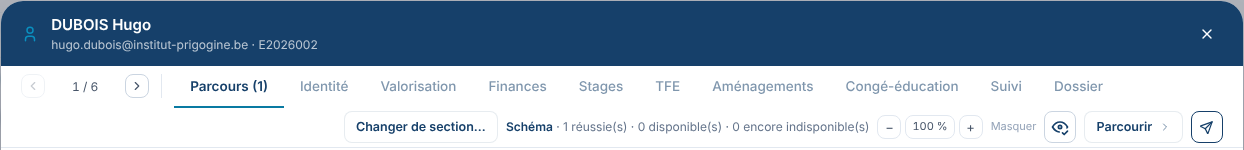
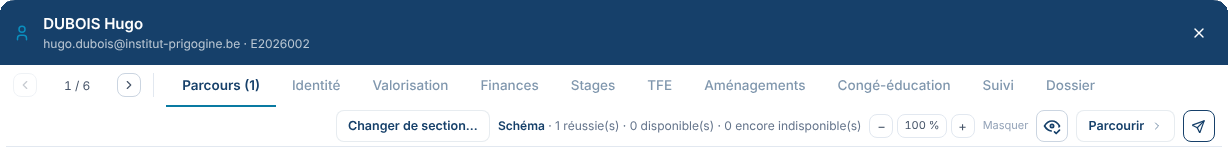
3.5.087 — Mode d'emploi : les captures de fenêtres rognées à la fenêtre seule (25), sans cadre ni fond, centrées, à l'écran et dans le PDF

diff --git a/frontend/src/pages/Aide.jsx b/frontend/src/pages/Aide.jsx
@@ -116,16 +116,18 @@ function ImageDuPoint({ im, p, onAgrandir, onTaille }) {
     setLargeur(l); onTaille?.(im.src, l);
   };
   return (
-    <figure className="m-0 max-w-full rounded-champ border border-slate-200 overflow-hidden bg-white"
-      style={{ width: largeur ? `${largeur + 2}px` : '18rem' }}>
-      <button type="button" className="relative block w-full bg-slate-50 cursor-zoom-in" title="Agrandir"
+    /* LA FENÊTRE SEULE, CENTRÉE (3.5.087, Charles : « un cadre, puis un fond gris, puis la fenêtre — je ne veux que la
+       fenêtre, et centrée ») : plus de cadre ni de fond autour de la capture ; les captures de fenêtres sont rognées au bord
+       de la fenêtre (coins arrondis transparents). */
+    <figure className="m-0 mx-auto max-w-full" style={{ width: largeur ? `${largeur}px` : '18rem' }}>
+      <button type="button" className="relative block w-full cursor-zoom-in" title="Agrandir"
         onClick={() => onAgrandir?.(im)}>
         <img src={im.src} alt={im.legende || p.titre} loading="lazy" onLoad={charge}
-          className="block w-full h-auto object-contain" style={{ maxHeight: plafond }} />
+          className="block w-full h-auto object-contain" style={{ maxHeight: plafond, filter: 'drop-shadow(0 2px 6px rgba(15, 30, 60, .14))' }} />
         <span className="absolute right-1.5 bottom-1.5 inline-grid place-items-center w-7 h-7 rounded-full bg-white/90 border border-slate-200 text-slate-500">
           <IconZoomIn size={15} /></span>
       </button>
-      {im.legende && <figcaption className="px-3 py-1.5 text-mention text-slate-500 border-t border-slate-100"><Enrichi texte={im.legende} /></figcaption>}
+      {im.legende && <figcaption className="px-1 pt-2 text-mention text-slate-500 text-center"><Enrichi texte={im.legende} /></figcaption>}
     </figure>
   );
 }

diff --git a/backend/src/lib/guideKit.js b/backend/src/lib/guideKit.js
@@ -121,7 +121,8 @@ const STYLES = `
   /* les captures, dans un cadre bleu pâle, légende centrée (ancien guide) */
   /* Une capture se pose seule, sur un filet gris (3.5.034, Charles : « tu mets des bandes bleues claires »). */
   .cap { margin: 0 0 3mm; break-inside: avoid; }
-  .cap img { display: block; width: 100%; max-height: 72mm; object-fit: contain; border-radius: 2mm; border: .3mm solid #CBD5E1; background: #fff; }
+  /* La fenêtre seule, centrée (3.5.087) : ni cadre ni fond autour ; la capture est rognée au bord de la fenêtre. */
+  .cap img { display: block; max-width: 100%; width: auto; height: auto; max-height: 72mm; object-fit: contain; margin: 0 auto; }
   .cap figcaption { font-size: 7.8pt; color: ${C.gris}; text-align: center; margin-top: 1.8mm; line-height: 1.4; }
   .annot { margin: 1mm 0 3.5mm; width: 100%; }
   .annot-ecran { position: relative; }

diff --git a/backend/assets/nouveautes/2026-11.html b/backend/assets/nouveautes/2026-11.html
@@ -80,6 +80,12 @@
 <h2>Les dernières nouveautés</h2>
 <p class="intro">Ce qui est arrivé depuis la reprise du 2 novembre, le plus récent en tête.</p>
 
+<article class="nouveau" data-pour="ens sec coo dir">
+  <h3>Le mode d’emploi montre les fenêtres seules</h3>
+  <span class="ou">Où : <b>Documentation → Mode d’emploi</b>, et ses versions PDF.</span>
+  <p>Les captures de fenêtres ne portent plus de cadre ni le voile gris de l’écran : la fenêtre seule, centrée.</p>
+</article>
+
 <article class="nouveau" data-pour="ens dir">
   <h3>L’espace enseignant : ce qui m’attend, mes UE et mes étudiants</h3>
   <span class="ou">Où : <b>espace enseignant → Ma journée</b> (ce qui m’attend) et <b>Mes UE et étudiants</b>.</span>

diff --git a/frontend/src/components/TuileNouveautes.jsx b/frontend/src/components/TuileNouveautes.jsx
@@ -22,7 +22,7 @@ import { authHeaders, getUser } from '../lib/api.js';
  */
 const EDITION = '2026-11';
 // Le guide d'une édition s'enrichit : la révision rallume « Nouveau » sans changer de fichier.
-const REVISION = `${EDITION}.3586`;
+const REVISION = `${EDITION}.3587`;
 const DEPUIS = 'depuis le jeudi 8 octobre';
 const cleVu = () => `lucie.nouveautes.vu.${getUser()?.id || 'x'}`;
 

diff --git a/backend/src/lib/modeEmploi.js b/backend/src/lib/modeEmploi.js
@@ -18,7 +18,7 @@ import * as gConfig from './guide/config.js';
 import * as gEcole from './guide/ecole.js';
 import * as gNouveautes from './guide/nouveautes.js';
 
-export const VERSION_DECRITE = '3.5.086';
+export const VERSION_DECRITE = '3.5.087';
 
 export const RUBRIQUES = [
   {
